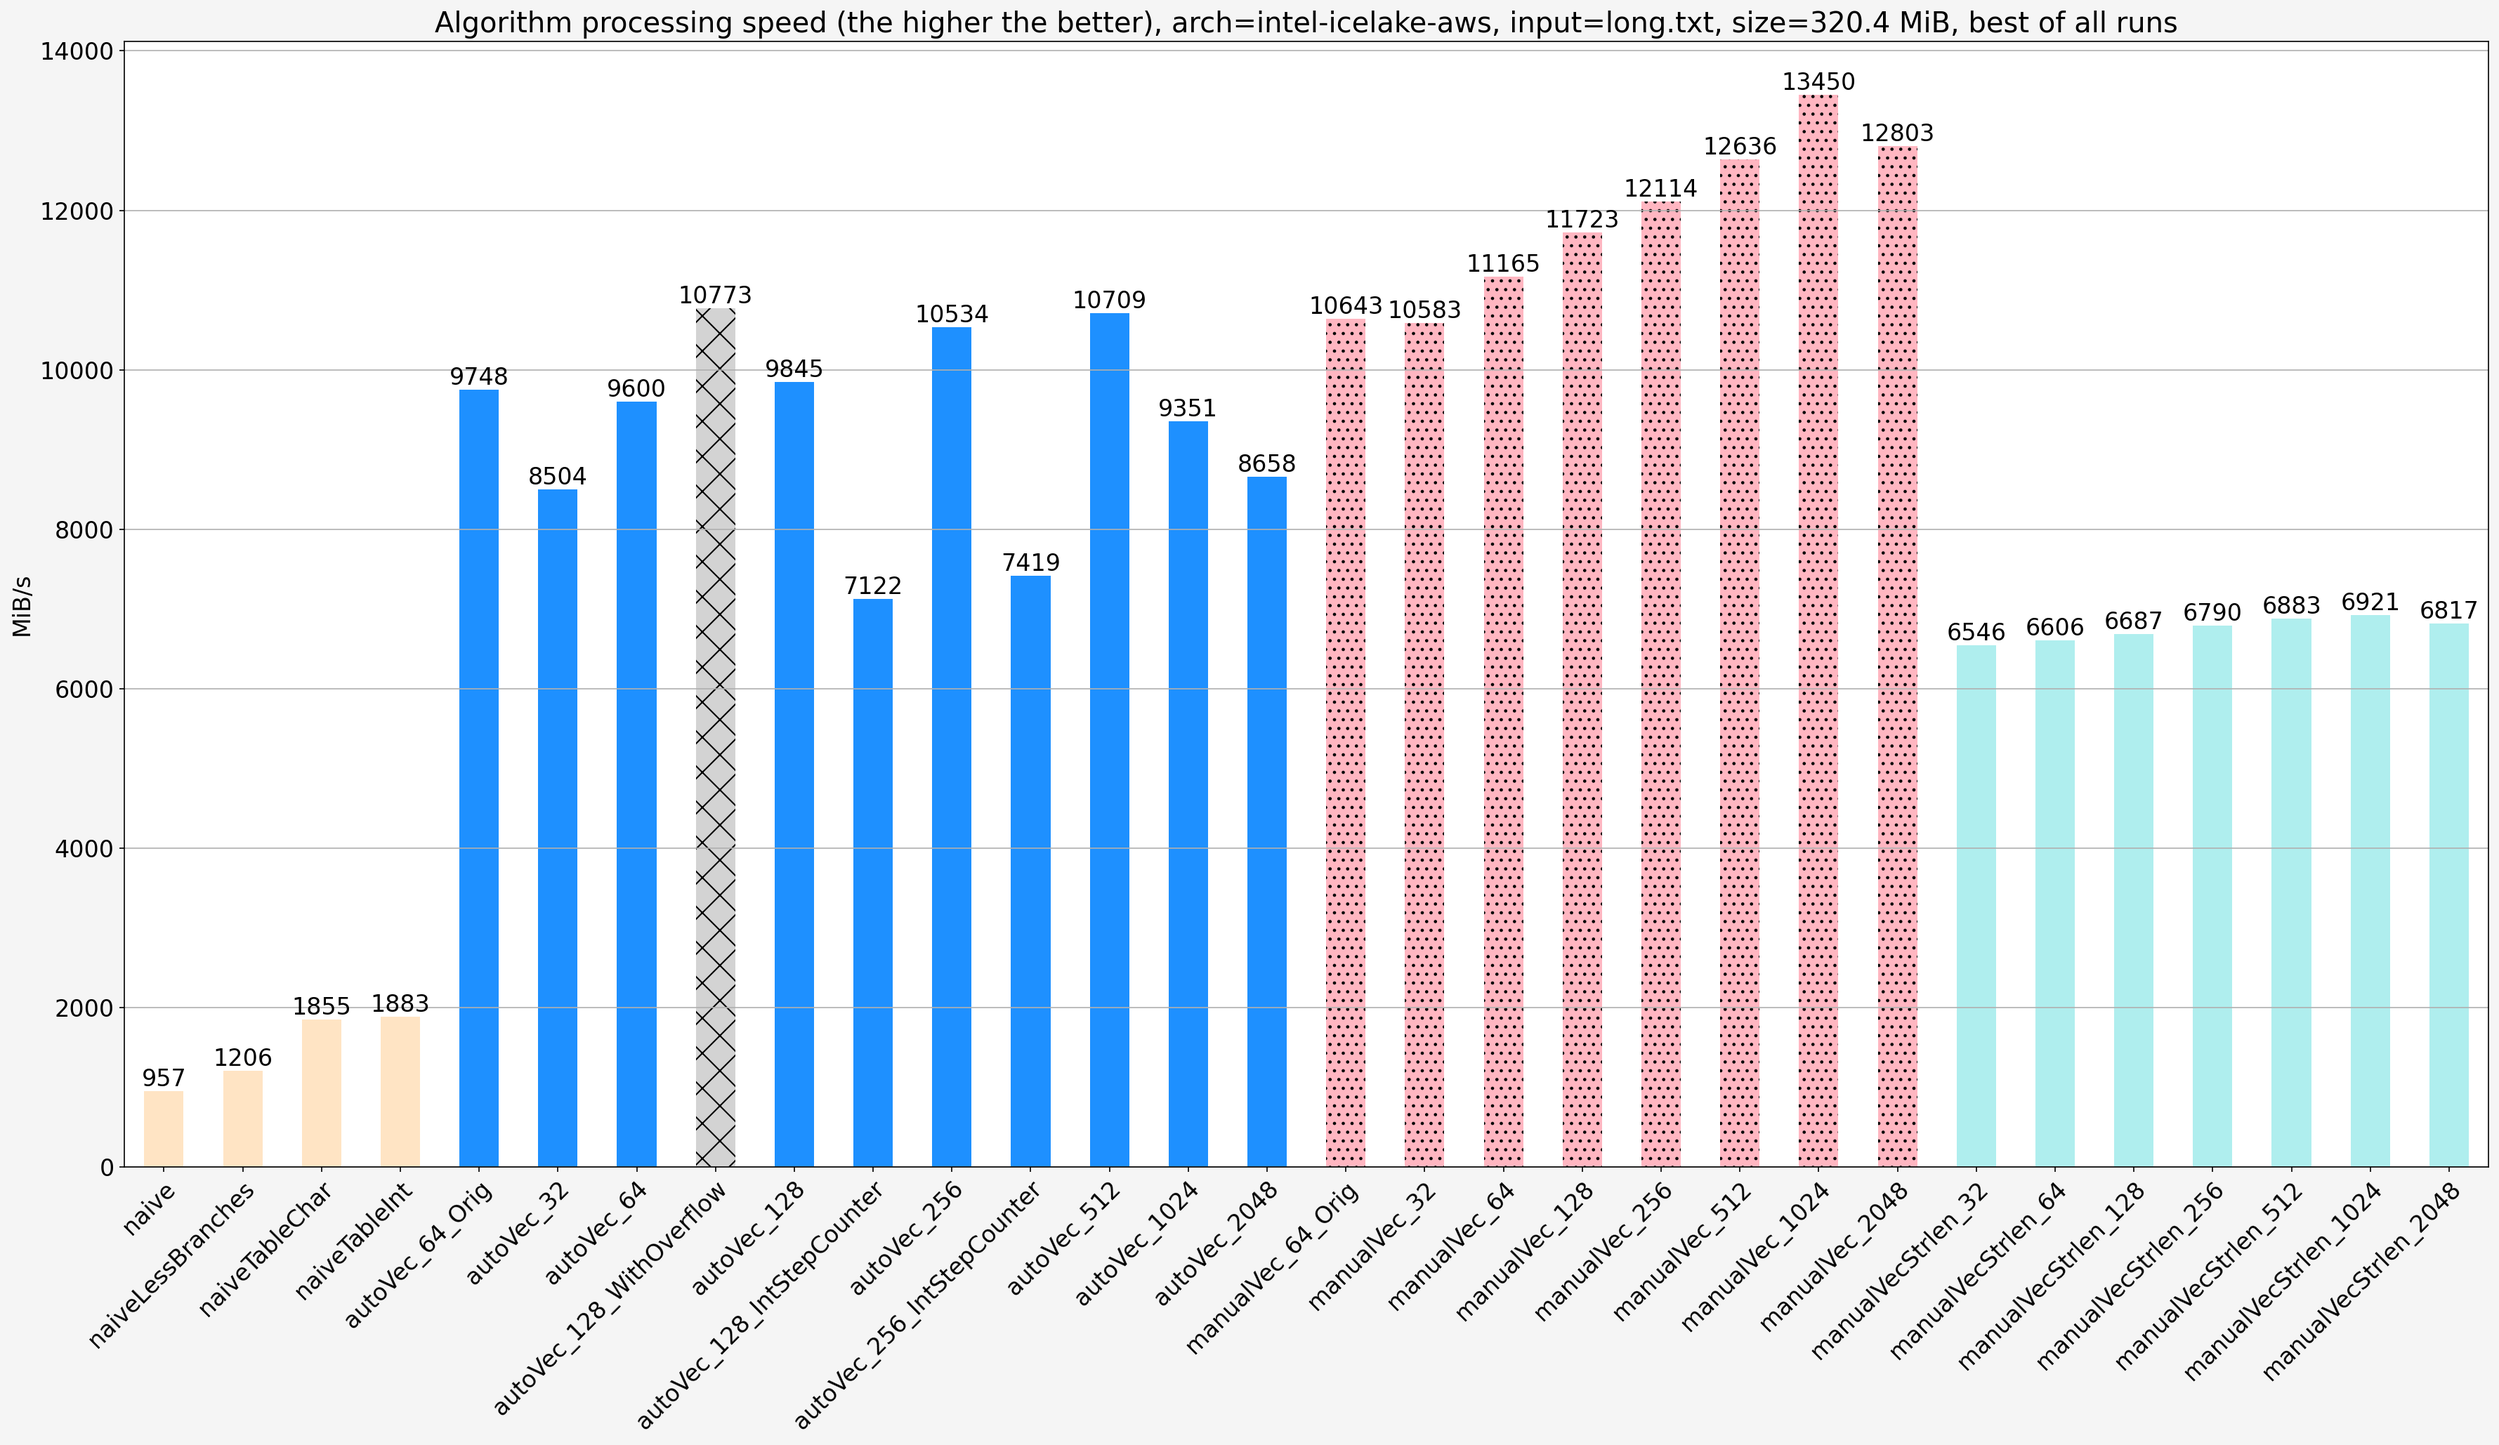
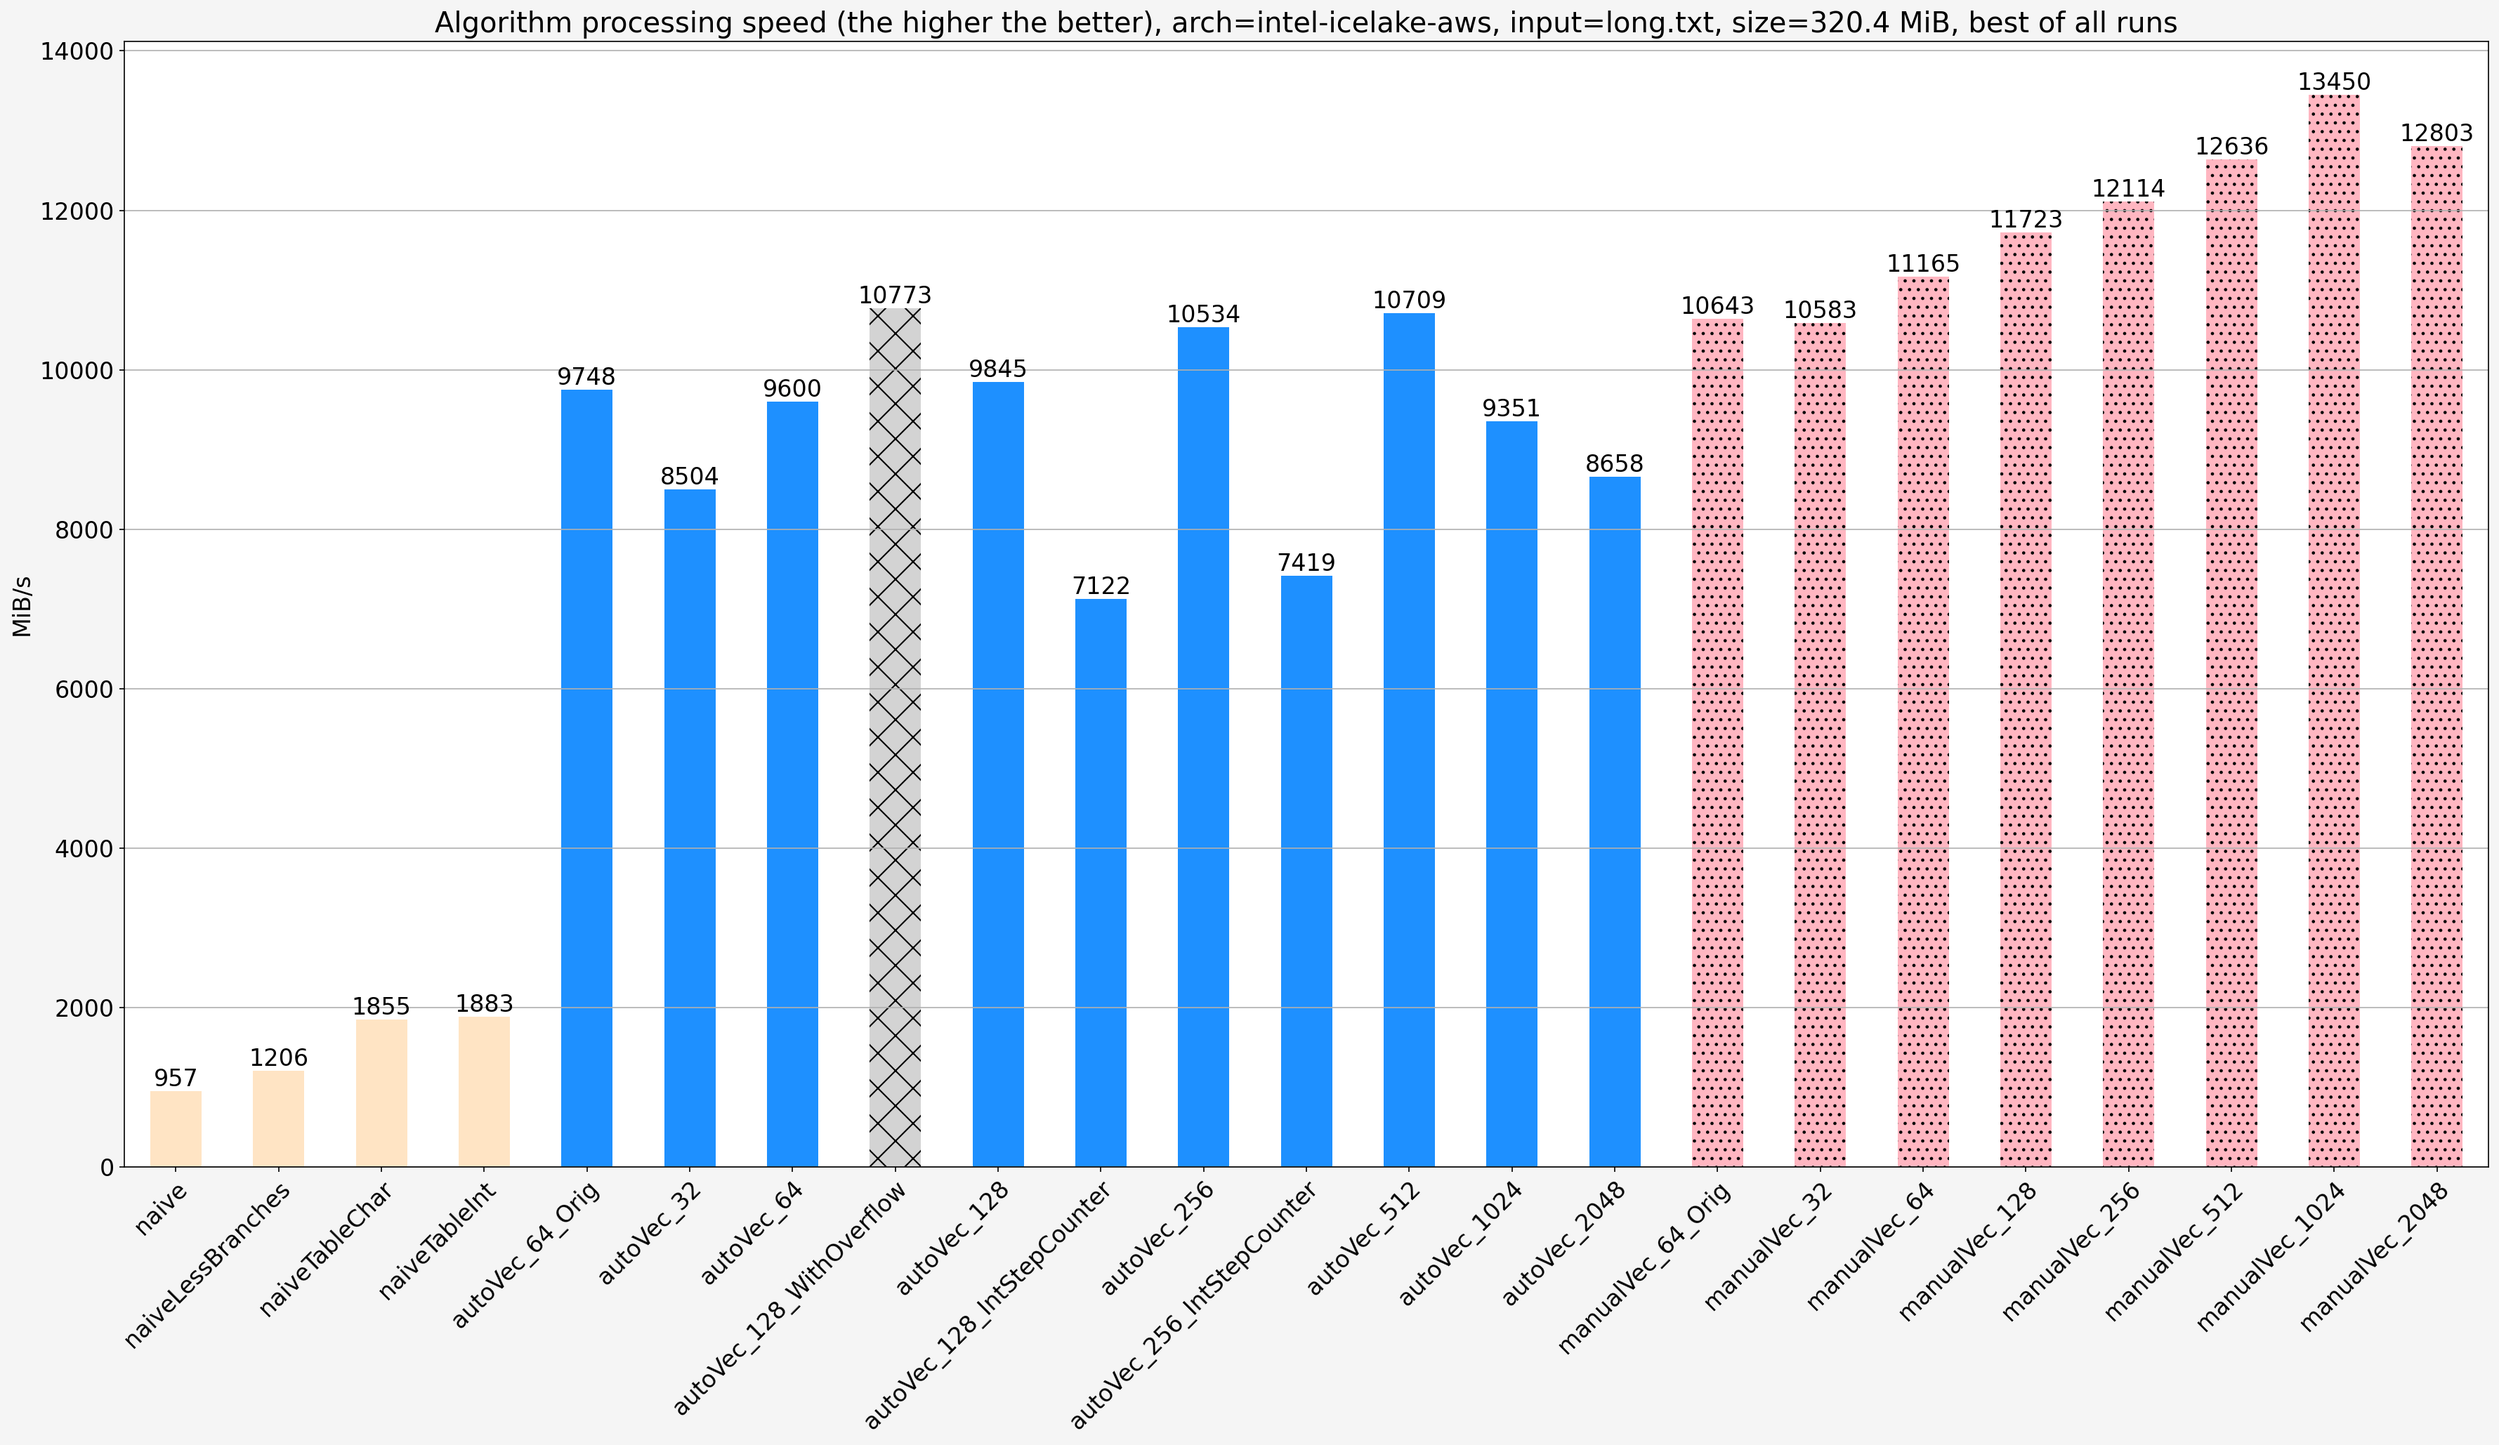
Remove manualVecStrlen from the first graph

diff --git a/_posts/2023-08-07-Optimizing-auto-vectorized-code.md b/_posts/2023-08-07-Optimizing-auto-vectorized-code.md
@@ -679,11 +679,10 @@ Benchmarks was run multiple time in a row for each algorithm and input combinati
 ![Benchmark results for Intel Xeon](/img/2023-08-06/1-intel-icelake-aws-wp.png)
 
 Notes:
-1. As you can see the manual vectorization produces a faster code than automatic vectorization by a factor of 1.3-4 for the same step size
+1. The manual vectorization produced a faster code than automatic one by a factor of 1.3-4 for the same step size
 2. Using `short` instead of `signed char` for step counter degrades speed by a factor of two on AMD platform, less on Intel platform
 3. Using `int` instead of `short` for step counter degrades speed further by a factor of two on AMD platform, less on Intel platform
 4. Vectorized implementations shows different speed on both platforms, non-vectorized shows the same performance
-5. Combining check for the null character with the character counting is faster than calling `strlen` first and then do a second pass to count characters over an input of known size by 60-90%
 6. AMD EPYC and Intel Xeon show similar relative performance of different vectorized implementations. AMD platform shows better absolute proformance but this can be attributed to the fact that Intel being an AWS instance has worse RAM setup.
 
 ### Large input (`long.txt`, 320 MiB)
@@ -710,6 +709,7 @@ For the long input `long.txt` for `manualVec_128` the execution is bound on `Bac
 
 Notes:
 1. (Not surprisingly) solution that takes the input size is in most cases faster than solution that relies on null-terminated input by 10-80%
+2. Combining check for the null character with the character counting is faster than calling `strlen` first and then do a second pass to count characters over an input of known size by 60-90%
 
 ### Large input (`long.txt`, 320 MiB)
 
